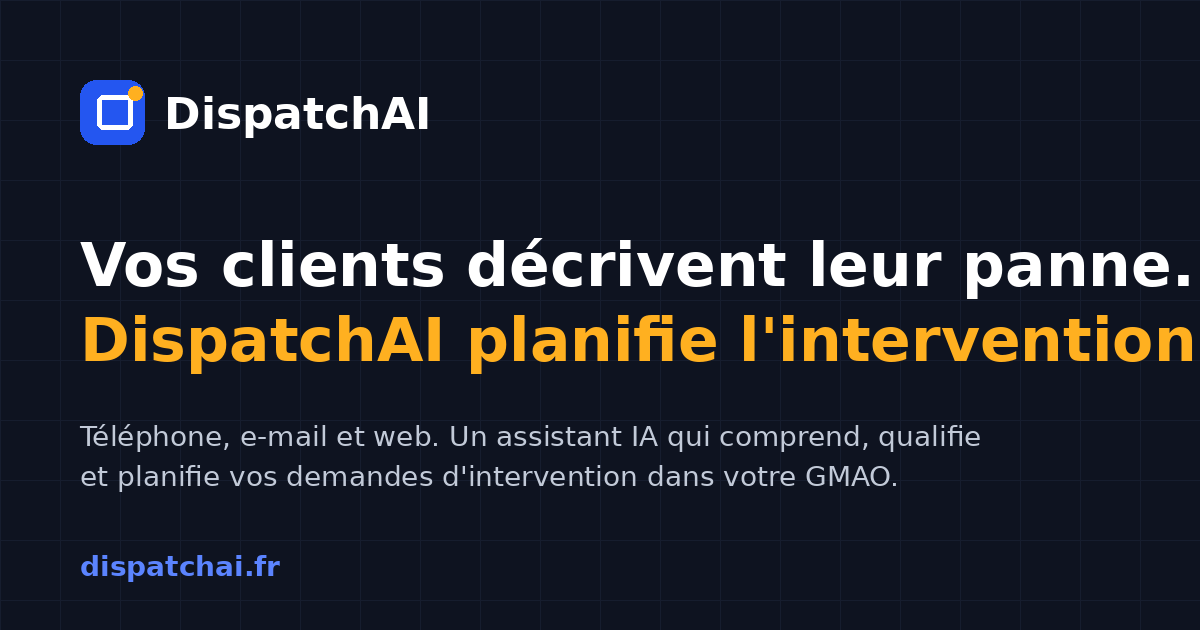
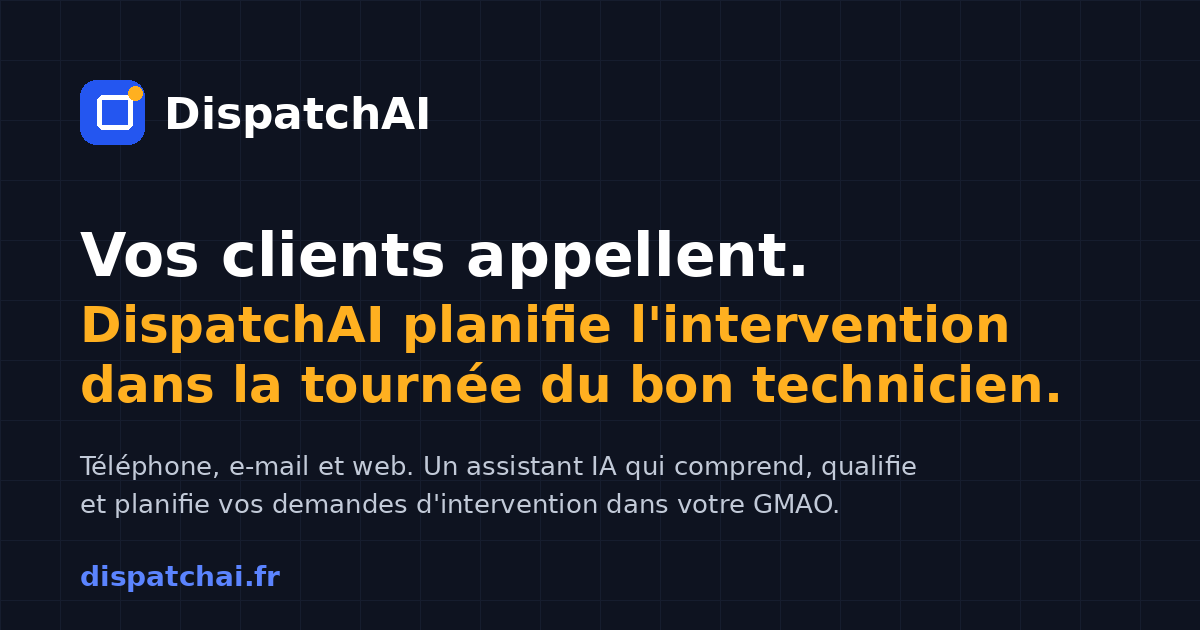
Hero : nouveau titre et accroche (tournée du bon technicien), image OG mise à jour

Changed region(s): [[0.0617, 0.3619, 1.0, 0.8143], [0.0617, 0.8746, 0.2467, 0.9349]]

diff --git a/public/index.html b/public/index.html
@@ -3,7 +3,7 @@
 <head>
 <meta charset="utf-8">
 <meta name="viewport" content="width=device-width, initial-scale=1, viewport-fit=cover">
-<title>DispatchAI : l'assistant IA qui transforme vos demandes d'intervention en interventions planifiées</title>
+<title>DispatchAI : vos clients appellent, l'intervention est planifiée dans la tournée du bon technicien</title>
 <meta name="description" content="DispatchAI reçoit les demandes d'intervention de vos clients par téléphone, e-mail et web, les comprend, les qualifie et les planifie directement dans votre GMAO. Pour les prestataires de maintenance et de SAV.">
 <meta name="robots" content="index, follow, max-image-preview:large">
 <meta name="theme-color" content="#F3F5F9" media="(prefers-color-scheme: light)">
@@ -16,13 +16,13 @@
 <meta property="og:locale" content="fr_FR">
 <meta property="og:site_name" content="DispatchAI">
 <meta property="og:url" content="https://dispatchai.fr/">
-<meta property="og:title" content="DispatchAI : chaque demande devient une intervention planifiée">
+<meta property="og:title" content="DispatchAI : vos clients appellent, l'intervention est planifiée dans la tournée du bon technicien">
 <meta property="og:description" content="Téléphone, e-mail, web : un seul assistant IA reçoit, comprend, qualifie et planifie vos demandes d'intervention dans votre GMAO.">
 <meta property="og:image" content="https://dispatchai.fr/og-image.png">
 <meta property="og:image:width" content="1200">
 <meta property="og:image:height" content="630">
 <meta name="twitter:card" content="summary_large_image">
-<meta name="twitter:title" content="DispatchAI : chaque demande devient une intervention planifiée">
+<meta name="twitter:title" content="DispatchAI : vos clients appellent, l'intervention est planifiée dans la tournée du bon technicien">
 <meta name="twitter:description" content="L'assistant IA des prestataires de maintenance et de SAV. Connecté à votre GMAO.">
 <meta name="twitter:image" content="https://dispatchai.fr/og-image.png">
 
@@ -518,8 +518,8 @@ dialog .d-body p{margin-bottom:10px}
   <div class="wrap hero-grid">
     <div>
       <span class="pill reveal"><i aria-hidden="true"></i>Disponible pour les prestataires de maintenance et de SAV</span>
-      <h1 id="h1" class="reveal d1">Vos clients décrivent leur panne. DispatchAI planifie l'intervention.</h1>
-      <p class="lead reveal d2">Un assistant IA qui répond au téléphone, lit vos e-mails et accueille vos demandes web, comprend le problème, identifie le site et l'équipement, pose les bonnes questions, puis crée une intervention planifiée dans votre GMAO. Jour et nuit, sans formulaire.</p>
+      <h1 id="h1" class="reveal d1">Vos clients appellent. DispatchAI planifie l'intervention directement dans la tournée du bon technicien.</h1>
+      <p class="lead reveal d2">Un assistant IA qui répond au téléphone, lit vos e-mails et accueille vos demandes web. Il comprend la panne, vérifie le contrat et l'urgence, puis propose au client un créneau compatible avec les compétences, les disponibilités et les tournées de vos techniciens. Dans l'heure quand c'est urgent, dans deux jours quand ça peut attendre. Jour et nuit, sans formulaire.</p>
       <div class="hero-actions reveal d3">
         <a class="btn btn-primary" href="#demo">Demander une démo
           <svg viewBox="0 0 24 24" fill="none" stroke="currentColor" stroke-width="2.2" stroke-linecap="round" stroke-linejoin="round"><path d="M5 12h14M13 6l6 6-6 6"/></svg>
